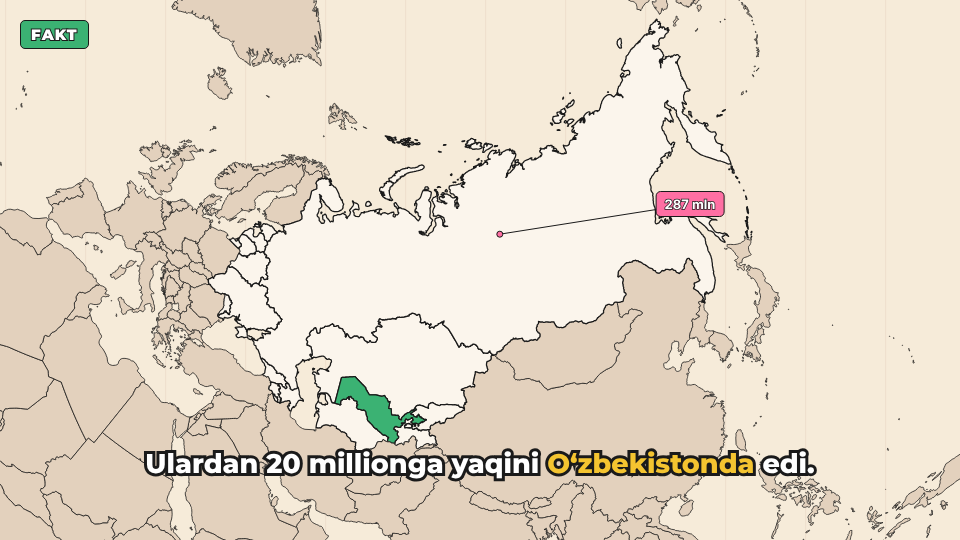
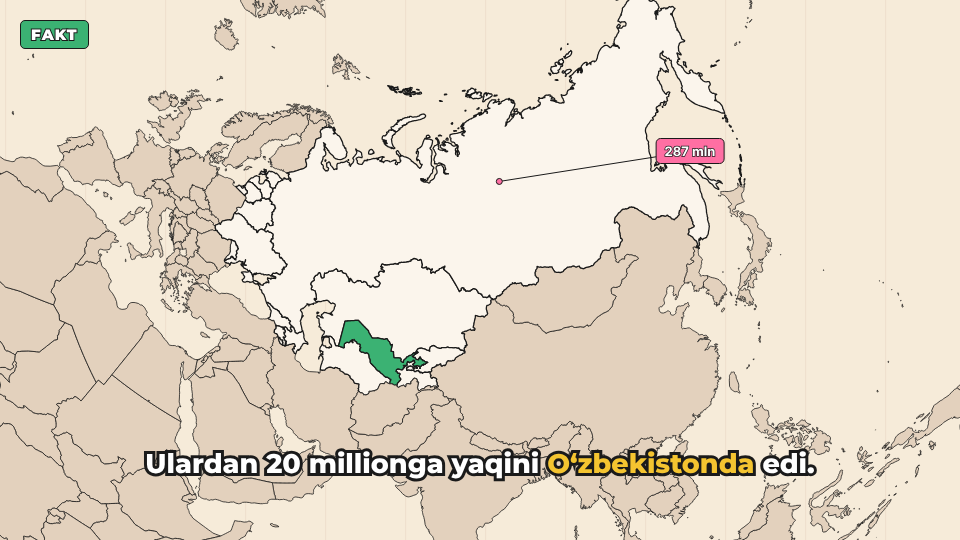
STAGE 4: dengiz qatlami, 41-sahna foni, kontakt varaq tuzatishlari
Claude-Session: https://claude.ai/code/session_01P6gZhkqVkr1WG8QfsLGM7w

diff --git a/video/src/components/Icons.tsx b/video/src/components/Icons.tsx
@@ -40,7 +40,7 @@ export const ICONS: Record<string, React.ReactNode> = {
   doc: <g><path d="M26 10 H80 L100 30 V110 H26 Z" fill={C.white} {...S} />{[44, 62, 80].map((y) => <line key={y} x1={40} y1={y} x2={86} y2={y} {...S} strokeWidth={4} />)}</g>,
   check: <g><circle cx={60} cy={60} r={46} fill={C.yashil} {...S} /><path d="M38 62 L54 78 L84 44" fill="none" stroke={C.white} strokeWidth={10} strokeLinecap="round" strokeLinejoin="round" /></g>,
   cross: <g><circle cx={60} cy={60} r={46} fill={C.qizil} {...S} /><path d="M42 42 L78 78 M78 42 L42 78" stroke={C.white} strokeWidth={10} strokeLinecap="round" /></g>,
-  bubble: <g><path d="M14 24 H106 V84 H50 L28 104 V84 H14 Z" fill={C.white} {...S} /><text x={60} y={64} textAnchor="middle" fontSize={24} fontWeight={900} fontFamily="Montserrat" fill={k}>Ha/Yoʻq</text></g>,
+  bubble: <g><path d="M14 24 H106 V84 H50 L28 104 V84 H14 Z" fill={C.white} {...S} /><text x={60} y={64} textAnchor="middle" fontSize={19} fontWeight={900} fontFamily="Montserrat" fill={k}>Ha / Yoʻq</text></g>,
   question: <g><circle cx={60} cy={60} r={48} fill={C.sariq} {...S} /><text x={60} y={82} textAnchor="middle" fontSize={66} fontWeight={900} fontFamily="Montserrat" fill={k}>?</text></g>,
   gate: <g><rect x={10} y={20} width={14} height={90} fill={C.jigar} {...S} /><rect x={96} y={20} width={14} height={90} fill={C.jigar} {...S} />{[34, 50, 66, 82].map((x) => <line key={x} x1={x} y1={30} x2={x} y2={104} {...S} />)}<line x1={24} y1={50} x2={96} y2={50} {...S} /><line x1={24} y1={86} x2={96} y2={86} {...S} /></g>,
   person: <g><circle cx={60} cy={34} r={20} fill={C.skin} {...S} strokeWidth={4} /><path d="M24 110 Q24 62 60 62 Q96 62 96 110 Z" fill={C.osmon} {...S} strokeWidth={4} /></g>,

diff --git a/video/src/Scene.tsx b/video/src/Scene.tsx
@@ -7,7 +7,7 @@ import {Icon} from './components/Icons';
 import {MapView, camFor, centroid, toScreen, useCam, Cam, project} from './components/MapView';
 import {Art} from './components/Art';
 import {Chart} from './components/Charts';
-import {C} from './theme';
+import {C, mix} from './theme';
 import {MONT} from './fonts';
 import {DEFS, SceneDef, Anchor} from './defs';
 import script from './data/script.json';
@@ -17,6 +17,8 @@ const SC: Record<number, any> = {};
 for (const s of (script as any).scenes) SC[s.id] = s;
 export const T: Record<string, any> = (timing as any).scenes;
 
+const SEA: Record<string, string> = Object.fromEntries((['krem', 'osmon', 'toʻq sariq', 'yashil', 'jigarrang', 'tun'] as const).map((b) => [b,
+  mix(mix(C.osmon, C.white, 0.3), ({krem: C.krem, osmon: C.osmon, 'toʻq sariq': C.toqsariq, yashil: C.yashil, jigarrang: C.jigar, tun: C.tun} as any)[b], b === 'tun' ? 0.45 : 0.2)]));
 const OVERVIEW: Cam = {s: 1.15, x: 960, y: 650};
 
 // generic push-in camera for non-map scenes: 1.0 -> 1.05 around focal point
@@ -67,7 +69,7 @@ export const SceneView: React.FC<{id: number}> = ({id}) => {
 
   if (isMap) {
     content = (
-      <MapView cam={cam} fills={def.fills} dashed={def.dashed} thick={def.thick}
+      <MapView cam={cam} sea={SEA[s.bg]} fills={def.fills} dashed={def.dashed} thick={def.thick}
         overlay={(c) => (
           <g>
             {(def.icons ?? []).map((ic, i) => {

diff --git a/video/src/components/MapView.tsx b/video/src/components/MapView.tsx
@@ -51,7 +51,7 @@ export const useCam = (from: Cam, to: Cam, frames: number): Cam => {
 };
 
 export const MapView: React.FC<{cam: Cam; fills?: Record<string, string>; dimOthers?: boolean; dashed?: string[]; thick?: Record<string, string>;
-  overlay?: (cam: Cam) => React.ReactNode; base?: string}> = ({cam, fills = {}, dashed = [], thick = {}, overlay, base}) => {
+  overlay?: (cam: Cam) => React.ReactNode; base?: string; sea?: string}> = ({cam, fills = {}, dashed = [], thick = {}, overlay, base, sea}) => {
   const ussrIds = new Set(USSR.map((k) => ID[k]));
   const fillOf = (id: string) => {
     const k = Object.keys(ID).find((key) => ID[key] === id);
@@ -63,6 +63,7 @@ export const MapView: React.FC<{cam: Cam; fills?: Record<string, string>; dimOth
   const sw = 1.6 / cam.s;
   return (
     <svg width={1920} height={1080} style={{position: 'absolute', left: 0, top: 0}}>
+      <rect x={0} y={0} width={1920} height={1080} fill={sea ?? mix(C.osmon, C.white, 0.45)} />
       <g transform={`translate(960,540) scale(${cam.s}) translate(${-cam.x},${-cam.y})`}>
         {Object.entries(D).map(([id, d]) => (
           <path key={id} d={d} fill={fillOf(id)} stroke={C.ink} strokeWidth={ussrIds.has(id) ? sw * 1.6 : sw} strokeLinejoin="round" />

diff --git a/video/src/components/Art.tsx b/video/src/components/Art.tsx
@@ -79,7 +79,7 @@ export const Art: React.FC<{name: string; frames: number; cueStart: (i: number) 
   if (name === 'mosque') {
     return (
       <svg width={1920} height={1080} style={{position: 'absolute', left: 0, top: 0}}>
-        <g fill={mix(C.tun, C.ink, 0.45)} {...S} strokeWidth={4}>
+        <g fill={mix(C.tun, C.white, 0.28)} {...S} strokeWidth={5}>
           <rect x={560} y={560} width={620} height={340} />
           <path d="M640 560 Q870 260 1100 560 Z" />
           <rect x={1240} y={300} width={70} height={600} />

diff --git a/video/tools/scenes.py b/video/tools/scenes.py
@@ -278,7 +278,7 @@ sc(40, 'TAXMIN', ['T09', 'R55'], 'yashil', 'map',
     ('Rossiya, Qozogʻiston, Turkmaniston va Ozarbayjon neft-gazga boy.', 'Rossiya, Qozogʻiston, Turkmaniston va Ozarbayjon neft-gazga boy.', 'neft-gazga'),
     ('Blok ichida yoqilgʻi arzonlashishi mumkin.', 'Blok ichida yoqilgʻi arzonlashishi mumkin.', 'arzonlashishi')])
 
-sc(41, 'TAXMIN', ['T09'], 'tun', 'icons',
+sc(41, 'TAXMIN', ['T09'], 'jigarrang', 'icons',
    'Night: a valve wheel in the middle; pipelines to Europe and Asia switch between open and closed. ' + C,
    [('siyosiy dastak', 0, 'dastakka'), ('Yevropa va Osiyo', 2, 'Osiyo')],
    [('Ammo bu boylik siyosiy dastakka ham aylanadi.', 'Ammo bu boylik siyosiy dastakka ham aylanadi.', 'siyosiy dastakka'),
